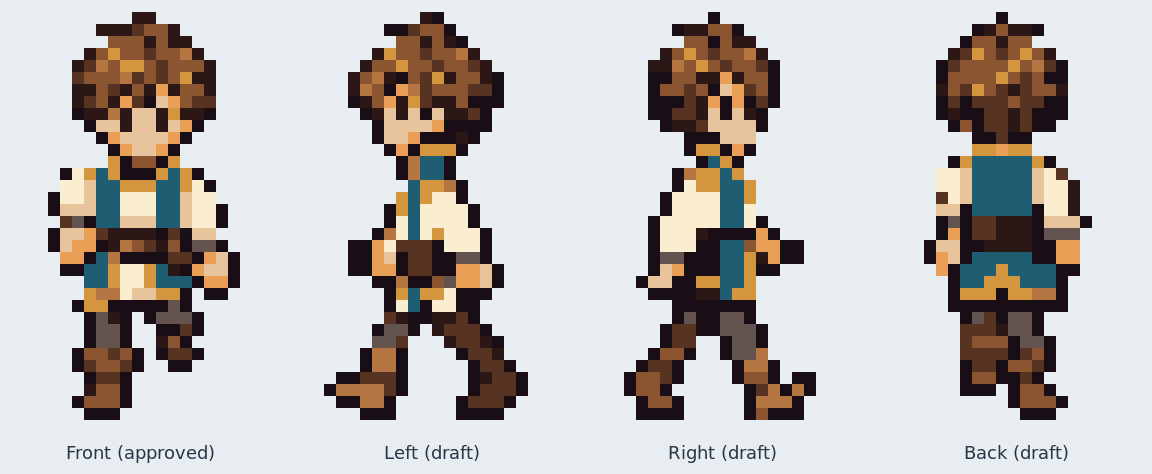
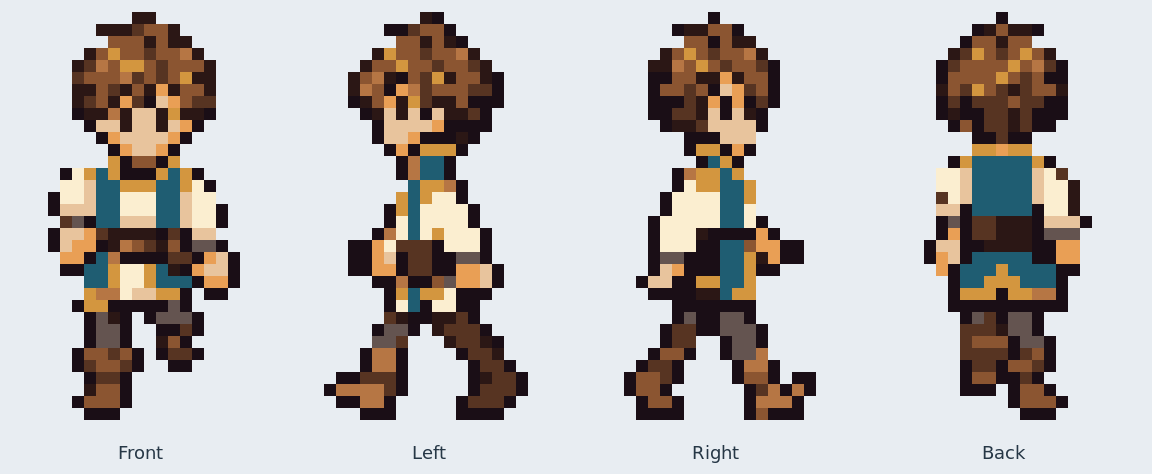
Record approval of all Caelan walking directions

diff --git a/assets/characters/caelan/README.md b/assets/characters/caelan/README.md
@@ -1,6 +1,6 @@
 # Caelan — directional idle sprites
 
-All four directional idle designs and the [four-frame front walk cycle](walk_front/README.md), including its coordinated head-and-shoulder bob, were explicitly approved by the user in chat. The original idle pixels and front walk remain unchanged. Matching [left](walk_left/README.md), [right](walk_right/README.md), and [back](walk_back/README.md) walk cycles are drafts awaiting review.
+All four directional idle designs and the four-frame walking cycles for [front](walk_front/README.md), [left](walk_left/README.md), [right](walk_right/README.md), and [back](walk_back/README.md), including their coordinated head-and-shoulder bob, were explicitly approved by the user in chat.
 
 ## Files
 
@@ -10,7 +10,7 @@ All four directional idle designs and the [four-frame front walk cycle](walk_fro
 - `idle_directions.json`: frame rectangles, foot anchors, and approval status; a standalone asset description, not an engine integration.
 - `idle_directions_review.png`: labeled 12× enlargement on a light background for review, not a runtime texture.
 - `idle_front_preview.png` and `idle_front_review.png`: earlier enlarged front views.
-- `walk_directions.png`: native 96×144 walking sheet, with front, left, right, and back rows; each row contains four 24×36 frames. The front row is approved; the others are drafts.
+- `walk_directions.png`: approved native 96×144 walking sheet, with front, left, right, and back rows; each row contains four 24×36 frames.
 - `walk_directions.json`: row/frame rectangles, approval status, and links to each direction's animation metadata.
 - `walk_directions_review.gif`: labeled 12× comparison loop, ordered front, left, right, back; `walk_directions_review.png` is its first frame for static inspection.
 

diff --git a/assets/characters/caelan/walk_right/README.md b/assets/characters/caelan/walk_right/README.md
@@ -1,6 +1,6 @@
 # Caelan — right-facing walk cycle
 
-Status: draft, awaiting user review. The approved directional idles and front walk are unchanged.
+Status: approved by the user, including the coordinated head-and-shoulder bob. The approved directional idles and front walk are unchanged.
 
 - `frame_01.png`–`frame_04.png`: four distinct transparent 24×36 frames.
 - `spritesheet.png`: transparent 96×36 strip in playback order.
@@ -12,4 +12,4 @@ Playback is contact A → passing A → contact B → passing B, then repeat (56
 
 The approved right idle supplies the exact head and neck pixels. Every native frame uses the approved front palette and binary transparency. Source poses are reduced with nearest-neighbor sampling, palette mapped, and registered to a common 24×36 frame. The opposite side-view phases use the corrected two-frame concept to distinguish the near and far legs.
 
-Sources are retained in `../../../source/characters/caelan/walk_right/`. Review stride, arm movement, clothing continuity, and the transition from the approved idle before approving the cycle. There is currently no game runtime.
+Sources are retained in `../../../source/characters/caelan/walk_right/`. Use this approved cycle and its coordinated upper-body bob as references for later animation work. There is currently no game runtime.

diff --git a/assets/characters/caelan/walk_left/README.md b/assets/characters/caelan/walk_left/README.md
@@ -1,6 +1,6 @@
 # Caelan — left-facing walk cycle
 
-Status: draft, awaiting user review. The approved directional idles and front walk are unchanged.
+Status: approved by the user, including the coordinated head-and-shoulder bob. The approved directional idles and front walk are unchanged.
 
 - `frame_01.png`–`frame_04.png`: four distinct transparent 24×36 frames.
 - `spritesheet.png`: transparent 96×36 strip in playback order.
@@ -12,4 +12,4 @@ Playback is contact A → passing A → contact B → passing B, then repeat (56
 
 The approved left idle supplies the exact head and neck pixels. Every native frame uses the approved front palette and binary transparency. Source poses are reduced with nearest-neighbor sampling, palette mapped, and registered to a common 24×36 frame. The opposite side-view phases use the corrected two-frame concept to distinguish the near and far legs.
 
-Sources are retained in `../../../source/characters/caelan/walk_left/`. Review stride, arm movement, clothing continuity, and the transition from the approved idle before approving the cycle. There is currently no game runtime.
+Sources are retained in `../../../source/characters/caelan/walk_left/`. Use this approved cycle and its coordinated upper-body bob as references for later animation work. There is currently no game runtime.

diff --git a/assets/characters/caelan/walk_back/README.md b/assets/characters/caelan/walk_back/README.md
@@ -1,6 +1,6 @@
 # Caelan — back-facing walk cycle
 
-Status: draft, awaiting user review. The approved directional idles and front walk are unchanged.
+Status: approved by the user, including the coordinated head-and-shoulder bob. The approved directional idles and front walk are unchanged.
 
 - `frame_01.png`–`frame_04.png`: four distinct transparent 24×36 frames.
 - `spritesheet.png`: transparent 96×36 strip in playback order.
@@ -12,4 +12,4 @@ Playback is contact A → passing A → contact B → passing B, then repeat (56
 
 The approved back idle supplies the exact head and neck pixels. Every native frame uses the approved front palette and binary transparency. Source poses are reduced with nearest-neighbor sampling, palette mapped, and registered to a common 24×36 frame.
 
-Sources are retained in `../../../source/characters/caelan/walk_back/`. Review stride, arm movement, clothing continuity, and the transition from the approved idle before approving the cycle. There is currently no game runtime.
+Sources are retained in `../../../source/characters/caelan/walk_back/`. Use this approved cycle and its coordinated upper-body bob as references for later animation work. There is currently no game runtime.

diff --git a/README.md b/README.md
@@ -20,4 +20,4 @@ These documents retain their original status labels. Approved story decisions, p
 
 The approved [front-facing walk cycle](assets/characters/caelan/walk_front/README.md) contains four frames with coordinated head-and-shoulder bobbing and an enlarged looping GIF.
 
-Matching [left](assets/characters/caelan/walk_left/README.md), [right](assets/characters/caelan/walk_right/README.md), and [back](assets/characters/caelan/walk_back/README.md) walking cycles are drafts awaiting review. The [combined looping preview](assets/characters/caelan/walk_directions_review.gif) shows all four directions together.
+Matching [left](assets/characters/caelan/walk_left/README.md), [right](assets/characters/caelan/walk_right/README.md), and [back](assets/characters/caelan/walk_back/README.md) walking cycles are approved. The [combined looping preview](assets/characters/caelan/walk_directions_review.gif) shows all four approved directions together.
